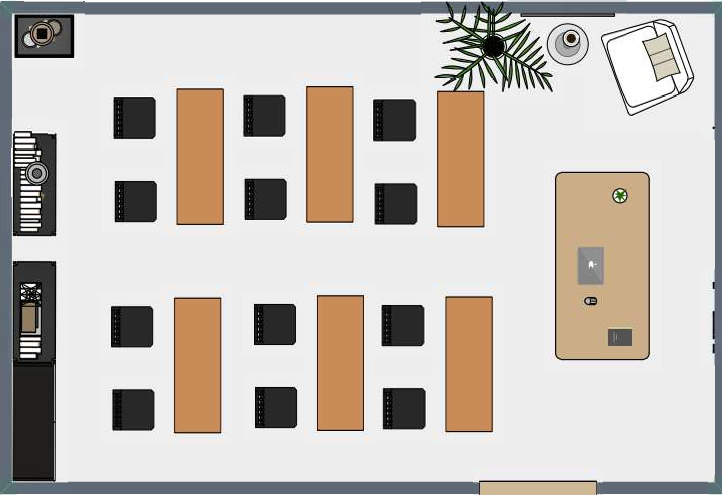
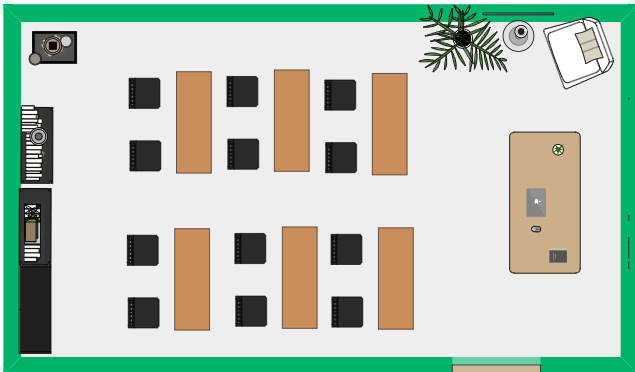
ajout de image

diff --git a/src/gui/GameDisplay.java b/src/gui/GameDisplay.java
@@ -57,11 +57,17 @@ public class GameDisplay extends JPanel {
 		
 		
 		//A REGROUPER DANS UNE METHODE A METTRE DANS PAINT STRATEGY
-		g2.drawImage(GameUtility.readImage("src/images/maison1.png"),0,  5* GameConfiguration.BLOCK_SIZE, 4*GameConfiguration.BLOCK_SIZE,4*GameConfiguration.BLOCK_SIZE, null);
-		g2.drawImage(GameUtility.readImage("src/images/maison1.png"),0,  10* GameConfiguration.BLOCK_SIZE, 4*GameConfiguration.BLOCK_SIZE,4*GameConfiguration.BLOCK_SIZE, null);
-		g2.drawImage(GameUtility.readImage("src/images/maison1.png"),0,  15* GameConfiguration.BLOCK_SIZE, 4*GameConfiguration.BLOCK_SIZE,4*GameConfiguration.BLOCK_SIZE, null);
-		g2.drawImage(GameUtility.readImage("src/images/imm.png"),11*GameConfiguration.BLOCK_SIZE,  7* GameConfiguration.BLOCK_SIZE, 6*GameConfiguration.BLOCK_SIZE,5*GameConfiguration.BLOCK_SIZE, null);
-		g2.drawImage(GameUtility.readImage("src/images/lycee.png"),0,0, 7*GameConfiguration.BLOCK_SIZE,4*GameConfiguration.BLOCK_SIZE, null);
+		int sizeBlock=GameConfiguration.BLOCK_SIZE;
+		g2.drawImage(GameUtility.readImage("src/images/maison1.png"),0,  5* sizeBlock, 4*sizeBlock,4*sizeBlock, null);
+		g2.drawImage(GameUtility.readImage("src/images/maison1.png"),0,  10* sizeBlock, 4*sizeBlock,4*sizeBlock, null);
+		g2.drawImage(GameUtility.readImage("src/images/maison1.png"),0,  15* sizeBlock, 4*sizeBlock,4*sizeBlock, null);
+		g2.drawImage(GameUtility.readImage("src/images/imm.png"),11*sizeBlock,  7* sizeBlock, 6*sizeBlock,5*sizeBlock, null);
+		g2.drawImage(GameUtility.readImage("src/images/piscine.png"),15*sizeBlock,0, 5*sizeBlock,4*sizeBlock, null);
+		g2.drawImage(GameUtility.readImage("src/images/boulangerie.png"),6*sizeBlock,  8* sizeBlock, 3*sizeBlock,3*sizeBlock, null);
+		g2.drawImage(GameUtility.readImage("src/images/lycee.png"),0*sizeBlock,   0*sizeBlock, 7*sizeBlock,4*sizeBlock, null);
+		g2.drawImage(GameUtility.readImage("src/images/parc.png"),6*sizeBlock,  13* sizeBlock, 7*sizeBlock,6*sizeBlock, null);
+		g2.drawImage(GameUtility.readImage("src/images/usine.png"),22*sizeBlock,  0* sizeBlock, 8*sizeBlock,4*sizeBlock, null);
+		
 		//dessin des portes
 		for(Batiment batiment : ville.getBatimentsList()) {
             paintStrategy.paint(batiment, g);
